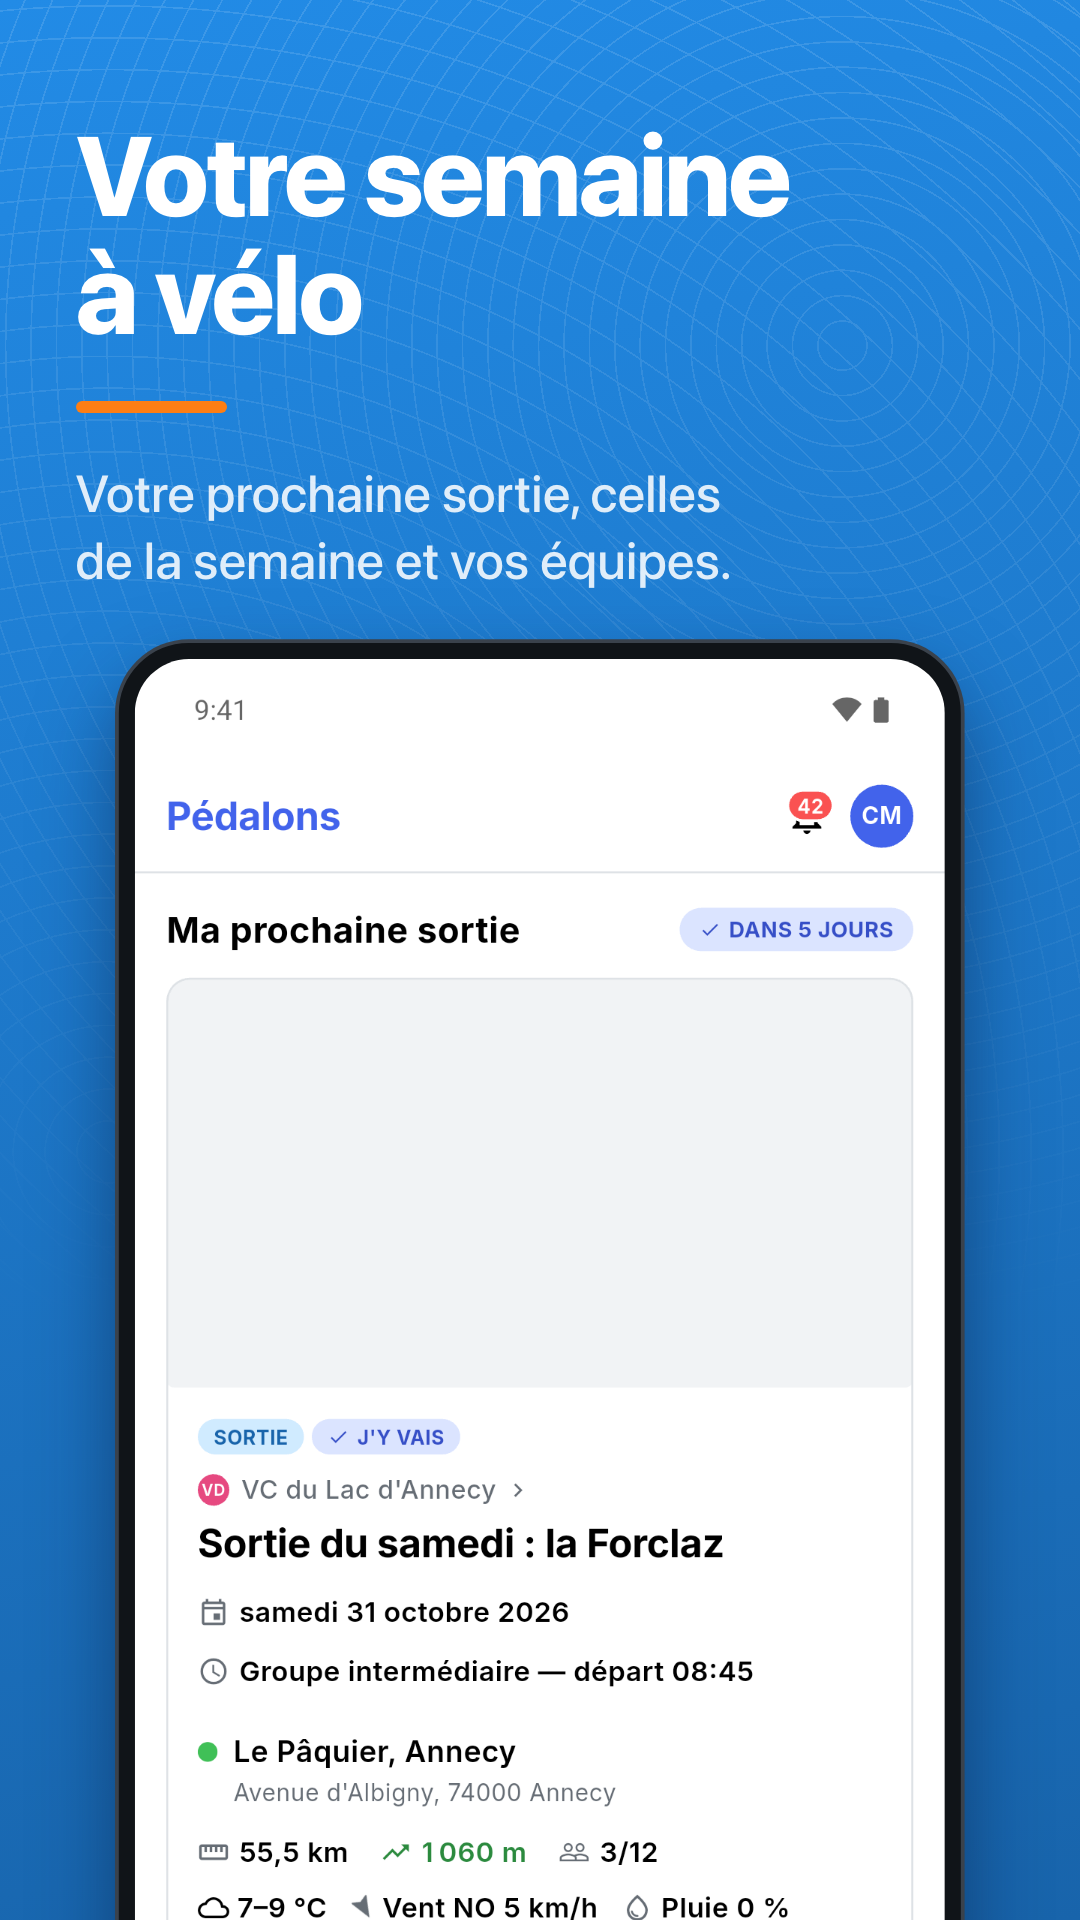
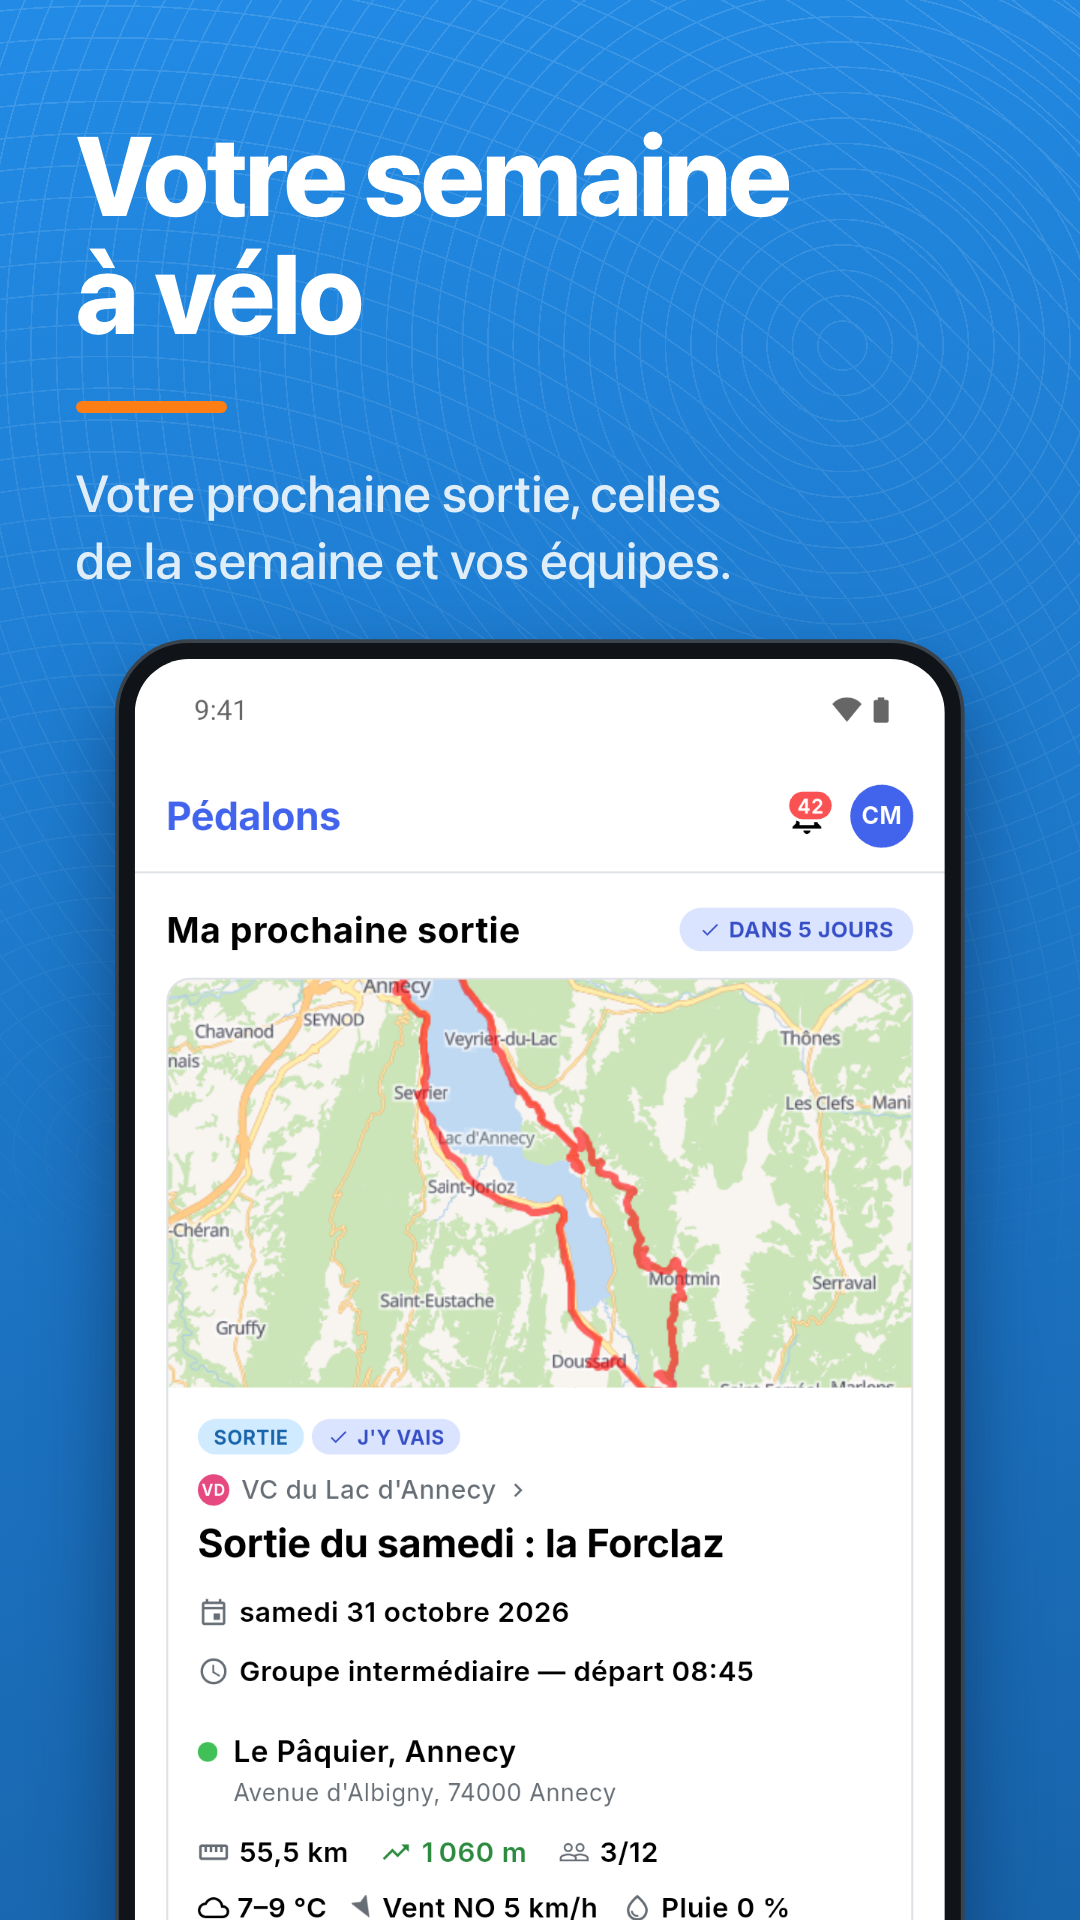
fix(store): l'accueil Android capturé avec la carte de la prochaine sortie
La miniature n'était pas encore chargée au premier lancement : deux images
identiques du placeholder suffisaient à déclencher la capture. 01-home
attend désormais 12 s, comme les autres écrans à carte (seed.py et
plan.json).

Changed region(s): [[0.1528, 0.5, 0.8556, 0.75]]

diff --git a/mobile/screenshots/seed.py b/mobile/screenshots/seed.py
@@ -777,7 +777,7 @@ def seed_club(locale: str, acc: dict, viewer: dict) -> list:
     # (lib/screenshots/screenshot_mode.dart). The weather needs ride0 within
     # seven days — next Saturday, so capture right after seeding.
     return [
-        {"id": "01-home", "path": "/", "devices": ["iphone"]},
+        {"id": "01-home", "path": "/", "devices": ["iphone"], "wait": 12},
         {"id": "01-trip", "path": f"{prefix}/{slug}/{voyages}/{trip_slug}", "devices": ["ipad"], "wait": 12},
         {"id": "02-ride", "path": f"{prefix}/{slug}/{sorties}/{ride0}", "push": "rideGroups", "wait": 12},
         {"id": "03-weather", "path": f"{prefix}/{slug}/{sorties}/{ride0}", "push": "rideGroupWeather", "wait": 12},
